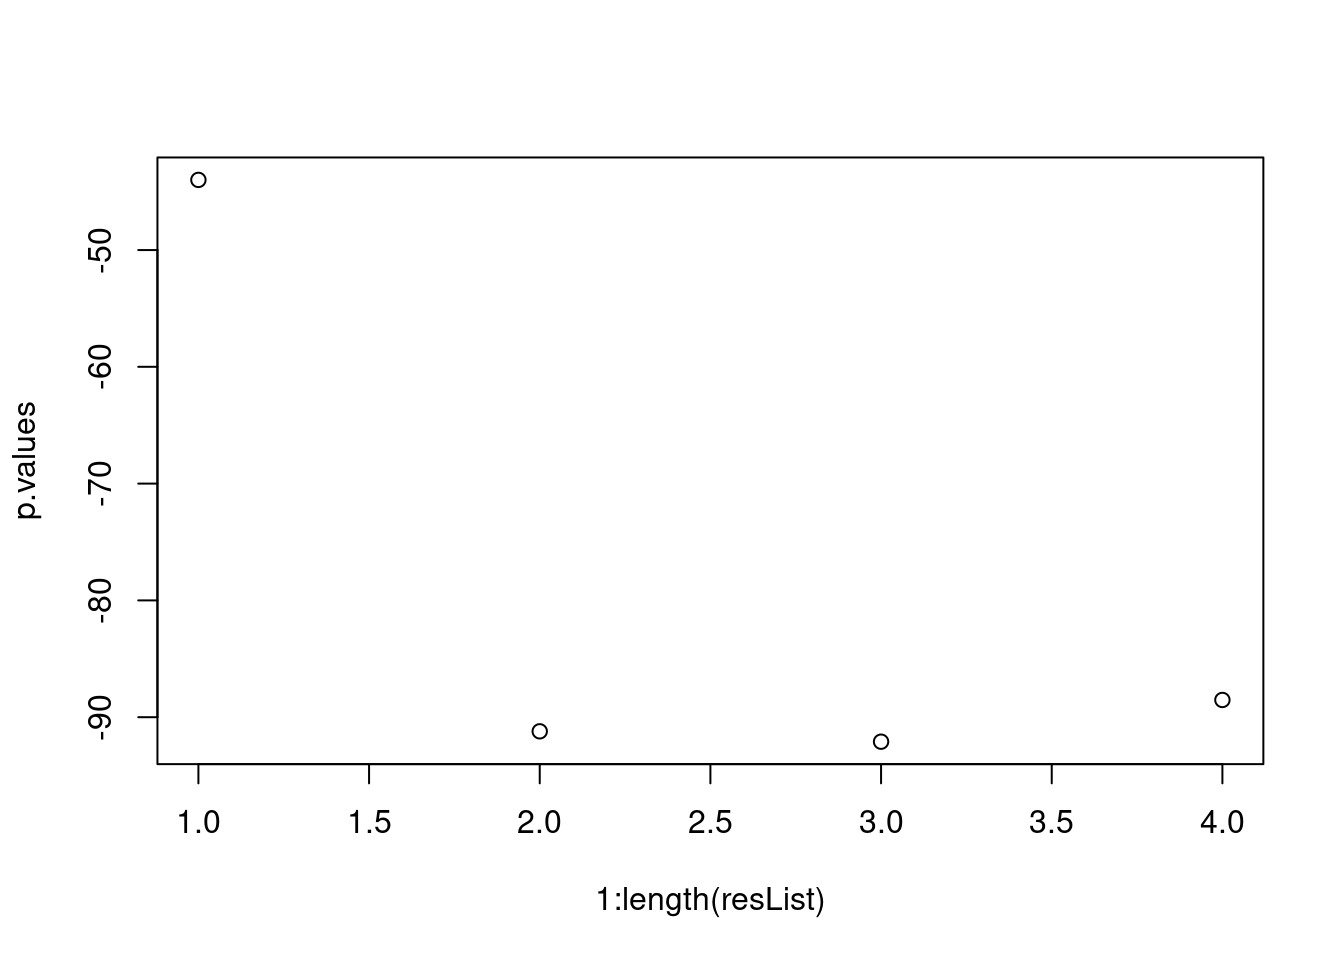
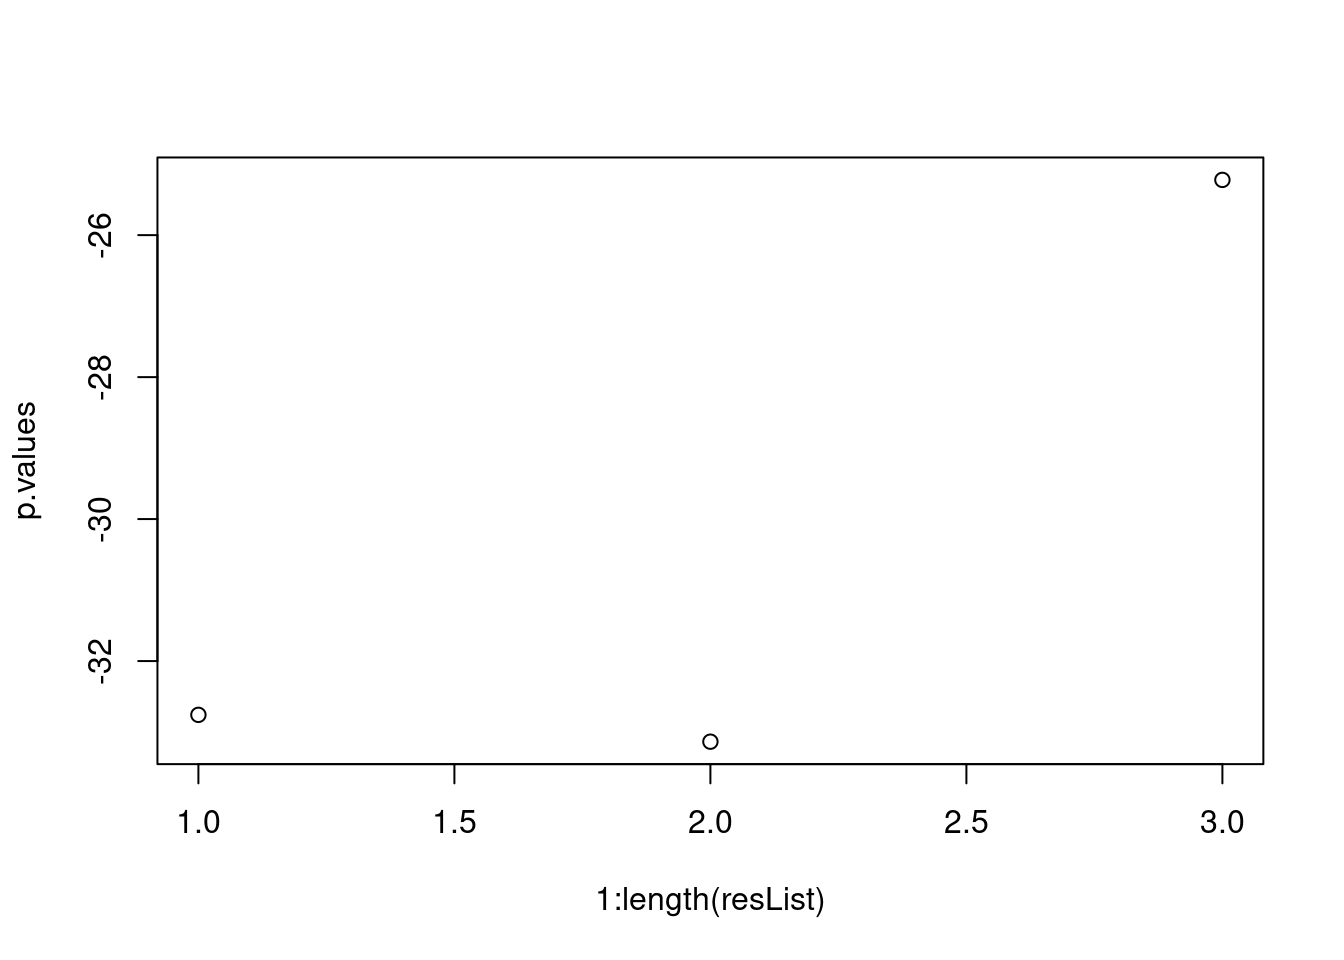
KS

diff --git a/README.html b/README.html
@@ -396,7 +396,7 @@ library(rlist)</code></pre>
 <p>To generate example of genome of length <code>L</code> with vector of
 mutation locations <code>muts</code>:</p>
 <pre class="r"><code>L &lt;- 10000
-muts &lt;- sort(c(sample(1:3000,3000*0.1),sample(3001:8000,5000*0.2),sample(8001:10000,2000*0.12)))</code></pre>
+muts &lt;- sort(c(sample(1:3000,3000*0.1),sample(3001:8000,5000*0.18),sample(8001:10000,2000*0.12)))</code></pre>
 <p>To find optimal breaks locations given <code>n=2</code> number of
 breaks</p>
 <pre class="r"><code>res &lt;- getBreaks(muts = muts, L = L, Kmin=Kmin, n=2)</code></pre>
@@ -410,7 +410,7 @@ for (i in 1:(length(breaks)-1))
 {
   lines(c(breaks[i],breaks[i+1]),c(-0.05,-0.05),col=colors[i], lwd=5)
 }</code></pre>
[2 lines of base64/hex data omitted]
 </div>
 <div id="example-with-unknown-number-of-breaks" class="section level2">
 <h2>Example with unknown number of breaks</h2>
@@ -435,10 +435,9 @@ while (resList[[imax]]$optim$bestval &lt; resList[[imax-1]]$optim$bestval)
   print(imax)
 }
 #&gt; [1] 3
-#&gt; [1] 4
 p.values &lt;- sapply(1:length(resList),function(i){resList[[i]]$optim$bestval})
 plot(1:length(resList),p.values)</code></pre>
[2 lines of base64/hex data omitted]
 <pre class="r"><code>n &lt;- which.min(p.values)
 res &lt;- resList[[n]]</code></pre>
 <p>To plot the results</p>
@@ -451,7 +450,7 @@ for (i in 1:(length(breaks)-1))
 {
   lines(c(breaks[i],breaks[i+1]),c(-0.05,-0.05),col=colors[i], lwd=5)
 }</code></pre>
[2 lines of base64/hex data omitted]
 </div>
 </div>
 

diff --git a/README.md b/README.md
@@ -39,6 +39,12 @@ registerDoParallel(cores = ncores)
 library(rlist)
 ```
 
+To set parameters
+
+``` r
+Kmin <- 300
+```
+
 ## Example with known number of breaks `n=2`
 
 This is a basic example which shows you how to find positions of `n=2`
@@ -55,7 +61,7 @@ muts <- sort(c(sample(1:3000,3000*0.1),sample(3001:8000,5000*0.18),sample(8001:1
 To find optimal breaks locations given `n=2` number of breaks
 
 ``` r
-res <- getBreaks(muts = muts, L = L, Kmin=0, n=2)
+res <- getBreaks(muts = muts, L = L, Kmin=Kmin, n=2)
 ```
 
 To plot the results
@@ -84,13 +90,13 @@ one break and estimates *p*-value of the null model as the 5% quantile
 of this vector
 
 ``` r
-p0 <- get_p0(muts,L=L,Kmin=0,A=20)
+p0 <- get_p0(muts,L=L,Kmin=Kmin,A=20)
 ```
 
 Calculate p-value for `n=1`:
 
 ``` r
-res <- getBreaks(muts = muts, L = L, Kmin=0, n=1)
+res <- getBreaks(muts = muts, L = L, Kmin=Kmin, n=1)
 if (res$optim$bestval>p0) {print("There is no support even for a single break")} else
  {print("There is support for one break, let's test for more")}
 #> [1] "There is support for one break, let's test for more"
@@ -99,21 +105,38 @@ if (res$optim$bestval>p0) {print("There is no support even for a single break")}
 To find optimal number of breaks
 
 ``` r
-resList <- list(res,getBreaks(muts = muts, L = L, Kmin=0, n=2))
+resList <- list(res,getBreaks(muts = muts, L = L, Kmin=Kmin, n=2))
 imax <- length(resList)
 while (resList[[imax]]$optim$bestval < resList[[imax-1]]$optim$bestval) 
 {
-  resList <- list.append(resList, getBreaks(muts = muts, L = L, Kmin=0, n=length(resList)+1))
+  resList <- list.append(resList, getBreaks(muts = muts, L = L, Kmin=Kmin, n=length(resList)+1))
   imax <- length(resList)
   print(imax)
 }
 #> [1] 3
-#> [1] 4
-#> [1] 5
-#> [1] 6
-#> [1] 7
 p.values <- sapply(1:length(resList),function(i){resList[[i]]$optim$bestval})
 plot(1:length(resList),p.values)
 ```
 
 <img src="man/figures/README-find optimal number of breaks-1.png" width="100%" />
+
+``` r
+n <- which.min(p.values)
+res <- resList[[n]]
+```
+
+To plot the results
+
+``` r
+breaks <- sort(c(0,res$optim$bestmem,L))
+colors <- brewer.pal(name="Paired", n=length(breaks)-1)
+par(mar=c(2,0,0,0))
+plot(muts,rep(0,length(muts)),pch=".", cex = 1.5,ylim=c(-0.06,0.01),ylab="",xlab="", axes=F)
+axis(side=1, at=c(0,3000,8000,L))
+for (i in 1:(length(breaks)-1))
+{
+  lines(c(breaks[i],breaks[i+1]),c(-0.05,-0.05),col=colors[i], lwd=5)
+}
+```
+
+<img src="man/figures/README-plot best results-1.png" width="100%" />
